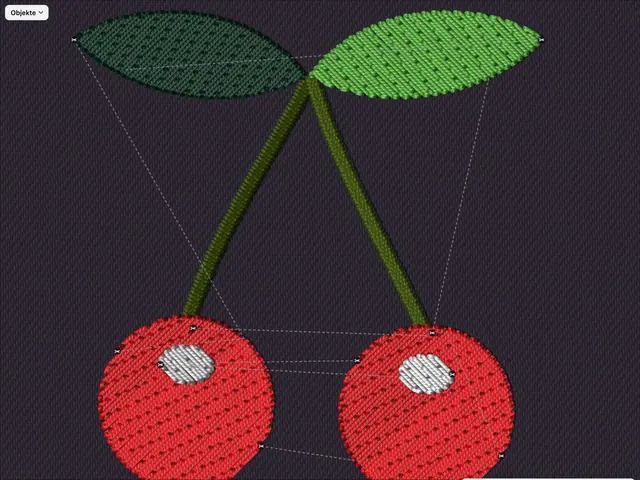
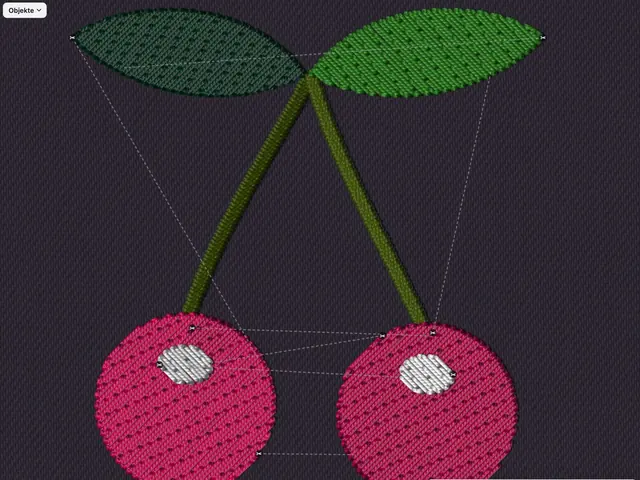
Teil 5 neu aufgenommen: Aktionsleiste, Garn über die Karte Objekt, Garnnamen von heute, Stimme Gacrux, Länge 2:50

diff --git a/src/videos/catalog.ts b/src/videos/catalog.ts
@@ -106,11 +106,11 @@ export const VIDEOS: Video[] = [
     key: '05-objekte-und-reihenfolge',
     part: 5,
     title: { de: 'Objekte und Reihenfolge', en: 'Objects and sequence' },
-    length: '2:31',
+    length: '2:50',
     group: 'design',
-    goal: { de: 'Du bringst Objekte in die richtige Reihenfolge, sparst Überlappungen aus und duplizierst und spiegelst sie.', en: 'You put objects in the right order, knock out overlaps, and duplicate and mirror them.' },
+    goal: { de: 'Du bringst Objekte in die richtige Reihenfolge, sparst Überlappungen aus, duplizierst und spiegelst sie und gibst einem Objekt ein eigenes Garn.', en: 'You put objects in the right order, knock out overlaps, duplicate and mirror them, and give one object a thread of its own.' },
     files: ['kirschen.svg'],
-    published: '2026-10-08T21:32:32+02:00',
+    published: '2026-10-11T14:05:52+02:00',
   },
   {
     key: '06-fertige-stickdatei-oeffnen',

diff --git a/docs/screencasts/05-objekte-und-reihenfolge/vorlage.md b/docs/screencasts/05-objekte-und-reihenfolge/vorlage.md
@@ -1,13 +1,18 @@
 # Teil 5: Objekte und Reihenfolge
 
 Schlüssel `05-objekte-und-reihenfolge`, Demodatei `material/kirschen.svg` (zwei Kirschen mit
-weißen Glanzlichtern, zwei Stiele, ein Blatt; 46 × 51 mm), etwa 2 Minuten, rund 280 Wörter.
+weißen Glanzlichtern, zwei Stiele, ein Blatt; 46 × 51 mm), 2:50 lang mit der Stimme Gacrux, rund 280 Wörter.
 
-Die SVG hat einen eingebauten Fehler: Die Glanzlichter (White) stehen vor dem Rot (Red) und
-werden zugedeckt. Das Video behebt ihn per Ziehen, spart dann aus, legt mit Rechtsklick,
-Duplizieren und Spiegeln ein zweites Blatt an, rastet es auf der Höhe des ersten ein und gibt
-ihm ein eigenes Garn (808 Deep Green). Ab Szene 3 sind Realistische Fäden an, damit man sieht,
-was oben liegt.
+Die SVG hat einen eingebauten Fehler: Die Glanzlichter (White) stehen vor dem Rot (heute als
+Brother-Garn „Dark Fuchsia“, das helle Grün heißt „Moss Green“) und werden zugedeckt. Das Video
+behebt ihn per Ziehen, spart dann aus, legt mit der Aktionsleiste unter dem Breadcrumb
+(Duplizieren, Waagrecht spiegeln) ein zweites Blatt an, rastet es auf der Höhe des ersten ein
+und gibt ihm über das Garn in der Karte Objekt ein eigenes Garn (808 Deep Green). Ab Szene 3 sind
+Realistische Fäden an, damit man sieht, was oben liegt.
+
+Neu aufgenommen im Oktober 2026 (main ee5ccfb): Szenen 6 bis 8 über die Aktionsleiste statt über
+das Rechtsklick-Menü, Garn über die Karte Objekt, Garnnamen von heute. Stimme abweichend von der
+Serie: Gacrux.
 
 ## Szene 1
 
@@ -19,7 +24,7 @@ lässt sie auf der Startseite fallen: Die Kirschen öffnen als Stickmuster.
 ## Szene 2
 
 **Bild:** Heranzoomen links, Etikett Farben und Objekte. Der Zeiger fährt die vier Farben von
-oben nach unten ab. Klick auf den Pfeil vor Red: Füllung 1 und Füllung 2 klappen auf. Der Zeiger
+oben nach unten ab. Klick auf den Pfeil vor Dark Fuchsia: Füllung 1 und Füllung 2 klappen auf. Der Zeiger
 fährt über Füllung 1 und Füllung 2, auf der Bühne leuchtet jeweils die Kirsche auf.
 
 **Sprechtext:** Links unter Farben und Objekte steht alles in der Reihenfolge, in der die Maschine stickt, von oben nach unten. Jede Farbe ist ein Garn. Ein Klick auf den Pfeil zeigt ihre Objekte, hier die beiden Kirschen.
@@ -33,44 +38,46 @@ Fäden, Klick. Esc, Heranzoomen auf die Kirschen: rot, ohne Glanzlichter.
 
 ## Szene 4
 
-**Bild:** Heranzoomen links, Etikett White. White wird mit der Maus unter Red gezogen, eine Linie
+**Bild:** Heranzoomen links, Etikett White. White wird mit der Maus unter Dark Fuchsia gezogen, eine Linie
 zeigt, wo es landet. Halb herangezoomt (Liste und Kirschen): die Glanzlichter liegen obenauf.
 Der Zeiger zeigt auf die Meldung unter der Liste („… deckt … jetzt teilweise ab. Trotzdem so
 übernommen.“).
 
-**Sprechtext:** Die Reihenfolge änderst du per Ziehen. Ich ziehe White unter Red. [delighted] Schon liegen die Glanzlichter obenauf. Darunter steht, dass Weiß jetzt das Rot teilweise abdeckt. Genau das wollen wir.
+**Sprechtext:** Die Reihenfolge änderst du per Ziehen. Ich ziehe White unter Dark Fuchsia. [delighted] Schon liegen die Glanzlichter obenauf. Darunter steht, dass White jetzt Dark Fuchsia teilweise abdeckt. Genau das wollen wir.
 
 ## Szene 5
 
 **Bild:** Heranzoomen links oben auf den Hinweis über der Liste („2 Füllungen liegen teilweise
-unter anderen und würden dort doppelt gestickt.“), Etikett Aussparen, Klick. Die Meldung „2
+unter anderen und würden dort doppelt gestickt.“; er steht seit dem Öffnen da), Etikett
+Aussparen, Klick. Die Meldung „2
 Füllungen sparen jetzt aus, was darüber liegt.“ erscheint unten.
 
 **Sprechtext:** Über der Liste steht ein Hinweis: Zwei Füllungen liegen teilweise unter anderen und würden dort doppelt gestickt. Ein Klick auf Aussparen, und das Rot lässt unter den Glanzlichtern Platz. [pleased] So wird die Stickerei nicht unnötig dick.
 
 ## Szene 6
 
-**Bild:** Esc. Rechtsklick auf das Blatt: das Menü mit Form bearbeiten, Duplizieren, Garn wählen,
-Reihenfolge, Spiegeln, Löschen und mehr. Etikett Duplizieren, Klick. Die Kopie liegt leicht
-versetzt über dem Original, Meldung „Kopie angelegt, gleich nach dem Original gestickt.“
+**Bild:** Esc. Klick auf das Blatt: Unter dem Breadcrumb erscheint die Aktionsleiste mit Einrasten,
+Duplizieren, Waagrecht spiegeln, Senkrecht spiegeln, Reihenfolge, Form bearbeiten, Kontur, Löschen
+und ⋯. Heranzoomen, Etikett Aktionsleiste, dann Etikett Duplizieren am Symbol, Klick. Die Kopie
+liegt leicht versetzt über dem Original.
 
-**Sprechtext:** Jetzt ein zweites Blatt. Ein Rechtsklick auf das Blatt öffnet ein Menü mit allem, was du mit einem Objekt tun kannst. Ich wähle Duplizieren. Die Kopie liegt fast genau auf dem Original.
+**Sprechtext:** Jetzt ein zweites Blatt. Ich klicke das Blatt an. Unter dem Breadcrumb erscheint die Aktionsleiste mit allem, was du mit einem Objekt tun kannst; dasselbe gibt es per Rechtsklick. Ich klicke auf Duplizieren. Die Kopie liegt fast genau auf dem Original.
 
 ## Szene 7
 
-**Bild:** Rechtsklick auf die Kopie, Etikett Waagrecht spiegeln, Klick: das Blatt zeigt nach links.
-Etikett Einrasten am Schalter über der Bühne. Die Kopie wird nach links gezogen, eine Linie über
-die Bühne zeigt, dass sie auf der Höhe des ersten Blatts einrastet.
+**Bild:** Etikett Waagrecht spiegeln am Symbol daneben, Klick: Das Blatt zeigt nach links. Die
+Kopie wird nach links gezogen, Etikett Einrasten am Magnet vorn in der Leiste. Eine Linie über die
+Bühne zeigt, dass sie auf der Höhe des ersten Blatts einrastet.
 
-**Sprechtext:** Noch ein Rechtsklick, Waagrecht spiegeln. Dann ziehe ich die Kopie nach links. Einrasten ist an: [focused] Eine Linie zeigt, wann das Blatt genau auf der Höhe des anderen sitzt.
+**Sprechtext:** Daneben liegt Waagrecht spiegeln. Dann ziehe ich die Kopie nach links. Einrasten ist an: [focused] Eine Linie zeigt, wann das Blatt genau auf der Höhe des anderen sitzt.
 
 ## Szene 8
 
-**Bild:** Rechtsklick auf das neue Blatt, Etikett Garn wählen, Klick. Das Fenster „Garn dieses
-Objekts wählen“, Klick auf 808 Deep Green. Heranzoomen links: in der Liste steht Deep Green als
-eigene Farbe, Etikett Deep Green.
+**Bild:** Heranzoomen rechts auf die Karte Objekt, Etikett am Garn „2. Moss Green“ unter dem
+Namen, Klick. Das Fenster „Garn dieses Objekts wählen“, Klick auf 808 Deep Green. Heranzoomen
+links: In der Liste steht Deep Green als eigene Farbe, Etikett Deep Green.
 
-**Sprechtext:** Das neue Blatt bekommt ein dunkleres Grün. Rechtsklick, Garn wählen, Deep Green. Nur dieses Objekt wechselt das Garn. In der Liste steht es jetzt als eigene Farbe.
+**Sprechtext:** Das neue Blatt bekommt ein dunkleres Grün. Rechts in der Karte Objekt klicke ich auf sein Garn und wähle Deep Green. Nur dieses Objekt wechselt das Garn. In der Liste steht es jetzt als eigene Farbe.
 
 ## Szene 9
 
